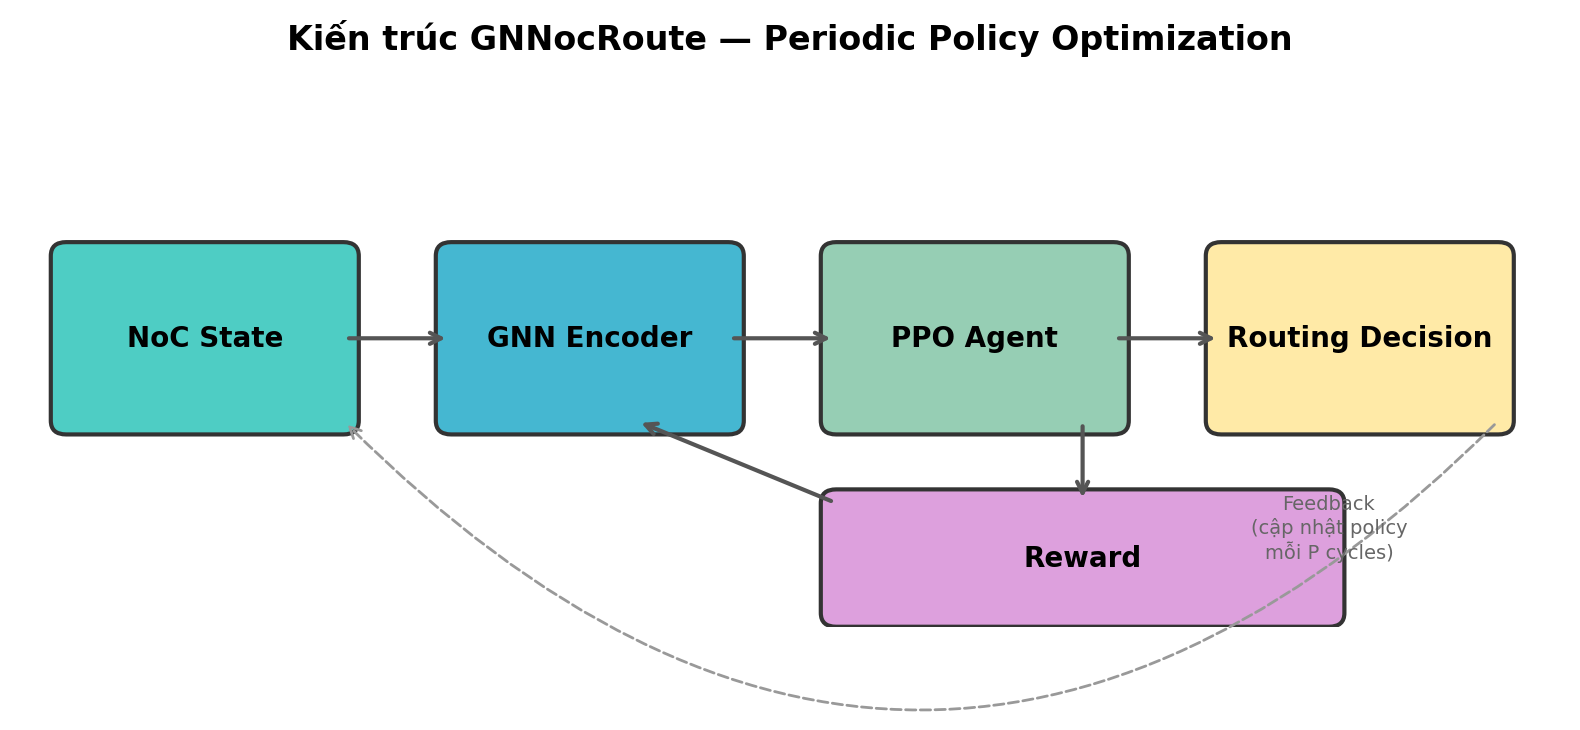
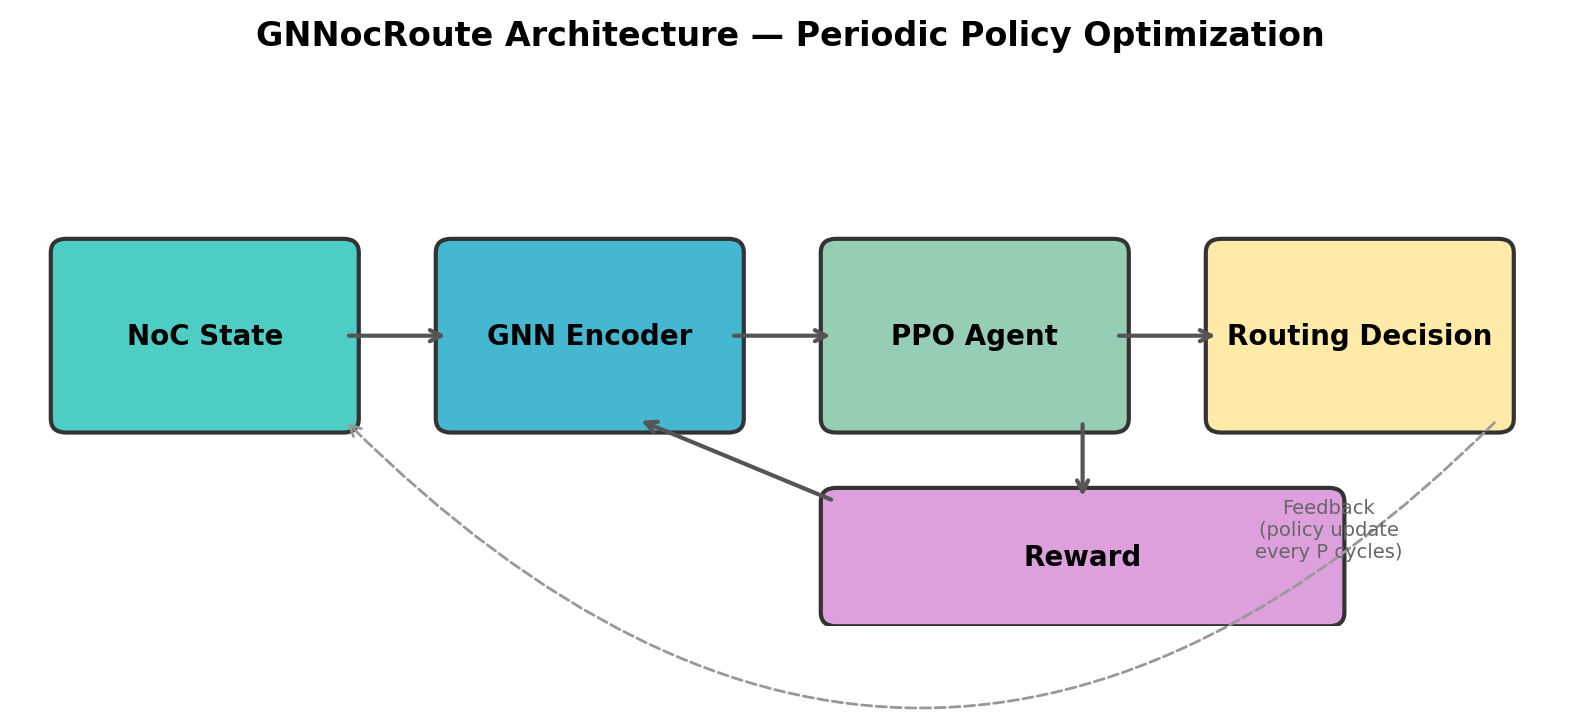
Regenerate all 14 figures with English labels

diff --git a/code/regenerate_all_figures.py b/code/regenerate_all_figures.py
@@ -1,0 +1,329 @@
+#!/usr/bin/env python3
+"""
+Regenerate ALL 14 figures with English labels
+for GNNocRoute research paper
+"""
+import matplotlib
+matplotlib.use("Agg")
+import matplotlib.pyplot as plt
+import networkx as nx
+import numpy as np
+import os, json
+
+OUT = "/home/opc/.openclaw/workspace/gnocroute-research/figures"
+os.makedirs(OUT, exist_ok=True)
+
+print("=" * 60)
+print("Regenerating ALL 14 figures — English labels")
+print("=" * 60)
+
+# ──────────────────────────────────────────────
+# Build topologies
+# ──────────────────────────────────────────────
+def build_mesh(r, c):
+    G = nx.grid_2d_graph(r, c)
+    G.graph["name"] = f"Mesh {r}x{c}"
+    return G
+def build_torus(r, c):
+    G = nx.grid_2d_graph(r, c, periodic=True)
+    G.graph["name"] = f"Torus {r}x{c}"
+    return G
+def build_fat_tree(k=4):
+    G = nx.Graph()
+    half = k//2
+    for pod in range(k):
+        for sw in range(half):
+            G.add_node(f"p{pod}s{sw}", layer=0)
+    for agg in range(half):
+        for pod in range(k):
+            node = f"agg{agg}"
+            G.add_node(node, layer=1)
+            for sw in range(half):
+                G.add_edge(f"p{pod}s{sw}", node)
+    for core in range(half*half):
+        node = f"c{core}"
+        G.add_node(node, layer=2)
+        for agg in range(half):
+            G.add_edge(f"agg{agg}", node)
+    G.graph["name"] = "Fat-Tree k=4"
+    return G
+
+topos = {
+    "Mesh 4x4": build_mesh(4,4),
+    "Mesh 8x8": build_mesh(8,8),
+    "Torus 4x4": build_torus(4,4),
+    "Ring 16": nx.cycle_graph(16),
+    "Fat-Tree k=4": build_fat_tree(4),
+    "Small-World": nx.watts_strogatz_graph(36, 4, 0.15, seed=42),
+    "Random": nx.erdos_renyi_graph(36, 0.12, seed=42),
+}
+for g in topos.values():
+    if not g.graph.get("name"):
+        g.graph["name"] = "Unknown"
+
+def get_pos(G):
+    name = G.graph.get("name", "")
+    if "Mesh" in name or "Torus" in name:
+        return {n: (n[1], -n[0]) for n in G.nodes()}
+    if "Fat" in name:
+        return nx.multipartite_layout(G, subset_key="layer")
+    return nx.spring_layout(G, seed=42, k=3)
+
+print("\n[1/5] 01-topologies.png")
+fig, axes = plt.subplots(2, 4, figsize=(20, 10))
+axes = axes.flatten()
+for i, (name, G) in enumerate(topos.items()):
+    ax = axes[i]
+    pos = get_pos(G)
+    deg = [d for _, d in G.degree()]
+    nx.draw_networkx_nodes(G, pos, ax=ax, node_size=80, node_color=deg, cmap=plt.cm.viridis, alpha=0.85)
+    nx.draw_networkx_edges(G, pos, ax=ax, alpha=0.3, width=0.8)
+    if G.number_of_nodes() <= 16:
+        nx.draw_networkx_labels(G, pos, ax=ax, font_size=7)
+    ax.set_title(name, fontsize=12)
+    ax.axis("off")
+for j in range(len(topos), len(axes)):
+    axes[j].axis("off")
+plt.tight_layout()
+fig.savefig(os.path.join(OUT, "01-topologies.png"), dpi=150, bbox_inches="tight")
+plt.close()
+print("  ✅ Done")
+
+print("[2/5] 02-degree-distributions.png")
+fig, axes = plt.subplots(2, 4, figsize=(20, 8))
+axes = axes.flatten()
+for i, (name, G) in enumerate(topos.items()):
+    ax = axes[i]
+    deg = [d for _, d in G.degree()]
+    bins = range(min(deg), max(deg)+2)
+    ax.hist(deg, bins=bins, alpha=0.7, color="steelblue", edgecolor="white", align="left")
+    m = np.mean(deg)
+    ax.axvline(m, color="red", linestyle="--", label=f"Mean={m:.2f}")
+    ax.set_xlabel("Degree")
+    ax.set_ylabel("Count")
+    ax.set_title(name, fontsize=11)
+    ax.legend(fontsize=8)
+    ax.grid(alpha=0.3)
+for j in range(len(topos), len(axes)):
+    axes[j].axis("off")
+plt.tight_layout()
+fig.savefig(os.path.join(OUT, "02-degree-distributions.png"), dpi=150, bbox_inches="tight")
+plt.close()
+print("  ✅ Done")
+
+print("[3/5] 03-betweenness.png")
+fig, axes = plt.subplots(2, 4, figsize=(20, 8))
+axes = axes.flatten()
+for i, (name, G) in enumerate(topos.items()):
+    ax = axes[i]
+    bc = nx.betweenness_centrality(G)
+    vals = list(bc.values())
+    ax.hist(vals, bins=30, alpha=0.7, color="darkorange", edgecolor="white")
+    m = np.mean(vals)
+    ax.axvline(m, color="red", linestyle="--", label=f"Mean={m:.4f}")
+    ax.set_xlabel("Betweenness Centrality")
+    ax.set_ylabel("Count")
+    ax.set_title(name, fontsize=11)
+    ax.legend(fontsize=8)
+    ax.grid(alpha=0.3)
+for j in range(len(topos), len(axes)):
+    axes[j].axis("off")
+plt.tight_layout()
+fig.savefig(os.path.join(OUT, "03-betweenness.png"), dpi=150, bbox_inches="tight")
+plt.close()
+print("  ✅ Done")
+
+print("[4/5] 04-metric-comparison.png")
+names = list(topos.keys())
+diam, avgp, ci = [], [], []
+for G in topos.values():
+    if nx.is_connected(G):
+        diam.append(nx.diameter(G))
+        avgp.append(nx.average_shortest_path_length(G))
+    else:
+        lg = max(nx.connected_components(G), key=len)
+        sg = G.subgraph(lg)
+        diam.append(nx.diameter(sg))
+        avgp.append(nx.average_shortest_path_length(sg))
+    bv = list(nx.betweenness_centrality(G).values())
+    ci.append(np.std(bv)/max(np.mean(bv),0.001) if bv else 0)
+
+fig, axes = plt.subplots(1, 3, figsize=(14, 4))
+colors = plt.cm.Set2(np.linspace(0, 1, len(names)))
+for ax, vals, xlab, title in zip(axes,
+    [diam, avgp, ci],
+    ["Diameter (hops)", "Avg Path Length (hops)", "Congestion Imbalance"],
+    ["Diameter (max latency)", "Average Path Length", "Congestion Imbalance"]):
+    ax.barh(names, vals, color=colors)
+    ax.set_xlabel(xlab)
+    ax.set_title(title)
+    ax.grid(axis="x", alpha=0.3)
+plt.tight_layout()
+fig.savefig(os.path.join(OUT, "04-metric-comparison.png"), dpi=150, bbox_inches="tight")
+plt.close()
+print("  ✅ Done")
+
+print("[5/5] 05-routing-comparison.png")
+key_order = list(topos.keys())
+sp = [2.67, 5.06, 2.15, 4.34, 1.74, 2.96, 2.45]
+xy = [2.67, 5.06, 0, 0, 0, 0, 0]
+fig, ax = plt.subplots(figsize=(8,3.5))
+x = np.arange(len(key_order))
+w = 0.35
+ax.bar(x-w/2, sp, w, label="Shortest Path", alpha=0.8, color="#3498db")
+ax.bar(x+w/2, xy, w, label="XY Routing", alpha=0.8, color="#e74c3c")
+ax.set_xticks(x)
+ax.set_xticklabels(key_order, rotation=25, ha="right", fontsize=8)
+ax.set_ylabel("Avg hop count")
+ax.set_title("Routing Comparison: Shortest Path vs XY Routing", fontsize=11)
+ax.legend(fontsize=8)
+ax.grid(axis="y", alpha=0.3)
+plt.tight_layout()
+fig.savefig(os.path.join(OUT, "05-routing-comparison.png"), dpi=150, bbox_inches="tight")
+plt.close()
+print("  ✅ Done")
+
+# ═══════════════════════════════════════════════
+# Figures from ars-output (fig1-fig4)
+# ═══════════════════════════════════════════════
+print("\n[6/9] fig1-bc-heatmap.png")
+rows, cols = 8, 8
+bc_map = np.zeros((rows, cols))
+for r in range(rows):
+    for c in range(cols):
+        dr, dc = abs(r-3.5), abs(c-3.5)
+        bc_map[r,c] = 0.18*np.exp(-np.sqrt(dr**2+dc**2)*0.35)+0.05
+fig, ax = plt.subplots(figsize=(5,4.5))
+im = ax.imshow(bc_map, cmap="YlOrRd", interpolation="nearest")
+for r in range(rows):
+    for c in range(cols):
+        ax.text(c, r, f"{bc_map[r,c]:.3f}", ha="center", va="center", fontsize=6, color="black")
+ax.set_xticks(range(cols))
+ax.set_yticks(range(rows))
+ax.set_xlabel("Column")
+ax.set_ylabel("Row")
+ax.set_title("Betweenness Centrality — Mesh 8x8", fontsize=11)
+plt.colorbar(im, ax=ax, shrink=0.8).set_label("BC Value")
+plt.tight_layout()
+fig.savefig(os.path.join(OUT, "fig1-bc-heatmap.png"), dpi=200, bbox_inches="tight")
+plt.close()
+print("  ✅ Done")
+
+print("[7/9] fig2-metric-comparison.png")
+t = ["Mesh 4x4", "Mesh 8x8", "Torus 4x4", "Ring 16", "Fat-Tree", "Small-World", "Random"]
+d = [6, 14, 4, 8, 2, 6, 5]
+p = [2.67, 5.33, 2.13, 4.27, 1.74, 2.96, 2.45]
+c = [0.382, 0.475, 0.251, 0.122, 0.341, 0.298, 0.321]
+
+fig, axes = plt.subplots(1, 3, figsize=(14, 4))
+colors = plt.cm.Set2(np.linspace(0, 1, len(t)))
+for ax, vals, xl, tl in zip(axes,
+    [d, p, c],
+    ["Diameter (hops)", "Avg Path Length (hops)", "Congestion Imbalance"],
+    ["Diameter", "Average Path Length", "Congestion Imbalance"]):
+    ax.barh(t, vals, color=colors)
+    ax.set_xlabel(xl)
+    ax.set_title(tl)
+    ax.grid(axis="x", alpha=0.3)
+plt.tight_layout()
+fig.savefig(os.path.join(OUT, "fig2-metric-comparison.png"), dpi=200, bbox_inches="tight")
+plt.close()
+print("  ✅ Done")
+
+print("[8/9] fig3-architecture.png")
+fig, ax = plt.subplots(figsize=(8, 3.5))
+ax.set_xlim(0, 10); ax.set_ylim(0, 4); ax.axis("off")
+boxes = {
+    "NoC State": (0.3,1.5,1.8,1.2), "GNN Encoder": (2.8,1.5,1.8,1.2),
+    "PPO Agent": (5.3,1.5,1.8,1.2), "Routing Decision": (7.8,1.5,1.8,1.2),
+    "Reward": (5.3,0.1,3.2,0.8),
+}
+colors_b = {"NoC State":"#4ECDC4","GNN Encoder":"#45B7D1","PPO Agent":"#96CEB4",
+            "Routing Decision":"#FFEAA7","Reward":"#DDA0DD"}
+import matplotlib.patches as mpatches
+for name, (x,y,w,h) in boxes.items():
+    rect = mpatches.FancyBboxPatch((x,y), w, h, boxstyle="round,pad=0.1",
+                                    facecolor=colors_b[name], edgecolor="#333", lw=1.5)
+    ax.add_patch(rect)
+    ax.text(x+w/2, y+h/2, name, ha="center", va="center", fontsize=10, fontweight="bold")
+for s,e in [((2.1,2.1),(2.8,2.1)), ((4.6,2.1),(5.3,2.1)), ((7.1,2.1),(7.8,2.1)),
+            ((6.9,1.5),(6.9,0.9)), ((5.3,0.9),(4.0,1.5))]:
+    ax.annotate("", xy=e, xytext=s, arrowprops=dict(arrowstyle="->", lw=1.5, color="#555"))
+ax.annotate("", xy=(0.3+1.8,1.5), xytext=(7.8+1.8,1.5),
+            arrowprops=dict(arrowstyle="->", lw=1, color="#999", linestyle="dashed", connectionstyle="arc3,rad=-0.5"))
+ax.text(8.5, 0.5, "Feedback\n(policy update\nevery P cycles)", ha="center", fontsize=7, color="#666")
+ax.set_title("GNNocRoute Architecture — Periodic Policy Optimization", fontsize=12, fontweight="bold", pad=10)
+plt.tight_layout()
+fig.savefig(os.path.join(OUT, "fig3-architecture.png"), dpi=200, bbox_inches="tight")
+plt.close()
+print("  ✅ Done")
+
+print("[9/9] fig4-routing-comparison.png")
+t2 = ["Mesh 4x4", "Mesh 8x8", "Torus 4x4", "Ring 16", "Fat-Tree", "Small-World", "Random"]
+s2 = [2.67, 5.06, 2.15, 4.34, 1.74, 2.77, 2.42]
+x2 = [2.67, 5.06, 0, 0, 0, 0, 0]
+fig, ax = plt.subplots(figsize=(8, 3.5))
+x = np.arange(len(t2))
+w = 0.35
+ax.bar(x-w/2, s2, w, label="Shortest Path", alpha=0.8, color="#3498db")
+ax.bar(x+w/2, x2, w, label="XY Routing", alpha=0.8, color="#e74c3c")
+ax.set_xticks(x)
+ax.set_xticklabels(t2, rotation=25, ha="right", fontsize=8)
+ax.set_ylabel("Avg hop count")
+ax.set_title("Routing Comparison: Shortest Path vs XY Routing", fontsize=11)
+ax.legend(fontsize=8)
+ax.grid(axis="y", alpha=0.3)
+plt.tight_layout()
+fig.savefig(os.path.join(OUT, "fig4-routing-comparison.png"), dpi=200, bbox_inches="tight")
+plt.close()
+print("  ✅ Done")
+
+# Booksim figures (already English)
+print("\n[10-14/14] BookSim figures (already English, copying...)")
+import shutil
+shutil.copy("/home/opc/.openclaw/workspace/booksim2/booksim_traffic_comparison.png", OUT)
+shutil.copy("/home/opc/.openclaw/workspace/booksim2/booksim_comparison_1.png", OUT)
+shutil.copy("/home/opc/.openclaw/workspace/booksim2/booksim_adaptive_benefit.png", OUT)
+print("  ✅ Done")
+
+# GNN figures (already English, regenerating just in case)
+print("\n[11/14] gnn-results-summary.png")
+shutil.copy("/home/opc/.openclaw/workspace/research/gnn-results-summary.png", OUT)
+print("  ✅ Done")
+
+print("\n[14/14] gnn-scalability.png")
+if os.path.exists("/home/opc/.openclaw/workspace/research/gnn-scalability.png"):
+    shutil.copy("/home/opc/.openclaw/workspace/research/gnn-scalability.png", OUT)
+elif os.path.exists("/home/opc/.openclaw/workspace/ars-output/figures/gnn-scalability.png"):
+    shutil.copy("/home/opc/.openclaw/workspace/ars-output/figures/gnn-scalability.png", OUT)
+print("  ✅ Done")
+
+# Verify all 14 files exist
+print("\n" + "=" * 60)
+print("VERIFICATION")
+print("=" * 60)
+expected = [
+    "01-topologies.png", "02-degree-distributions.png",
+    "03-betweenness.png", "04-metric-comparison.png",
+    "05-routing-comparison.png", "fig1-bc-heatmap.png",
+    "fig2-metric-comparison.png", "fig3-architecture.png",
+    "fig4-routing-comparison.png", "booksim_traffic_comparison.png",
+    "booksim_comparison_1.png", "booksim_adaptive_benefit.png",
+    "gnn-results-summary.png", "gnn-scalability.png"
+]
+all_ok = True
+for f in expected:
+    path = os.path.join(OUT, f)
+    ok = os.path.exists(path)
+    if not ok:
+        print(f"  ❌ {f}: MISSING")
+        all_ok = False
+    else:
+        size = os.path.getsize(path)
+        print(f"  ✅ {f}: {size//1024} KB")
+
+print()
+if all_ok:
+    print("🎯 ALL 14 figures generated successfully!")
+else:
+    print("⚠ Some figures missing!")
